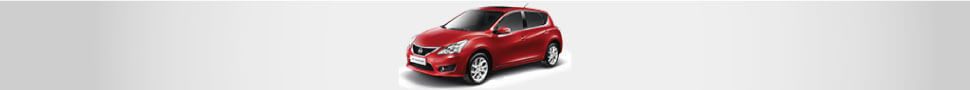
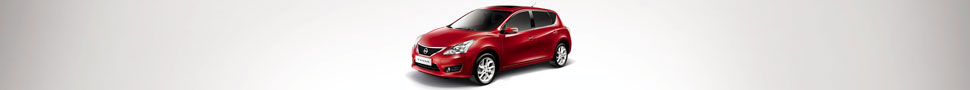
update Nissan/NissanSmile_TiidaSentra

Changed region(s): [[0.4021, 0.0444, 0.5876, 0.9778], [0.7732, 0.0, 1.0, 1.0], [0.0, 0.0, 0.1546, 1.0]]

diff --git a/AAC/Nissan/NissanSmile_TiidaSentra/970x90_AR/styles.css b/AAC/Nissan/NissanSmile_TiidaSentra/970x90_AR/styles.css
@@ -70,7 +70,7 @@ a {
   transform: scale(0.1);
   -ms-transform: scale(0.1);
   -webkit-transform: scale(0.1);
-  left:-50px;
+  left:-100px;
 }
 #smile2 {
   background: url("smile2.png") center no-repeat;
